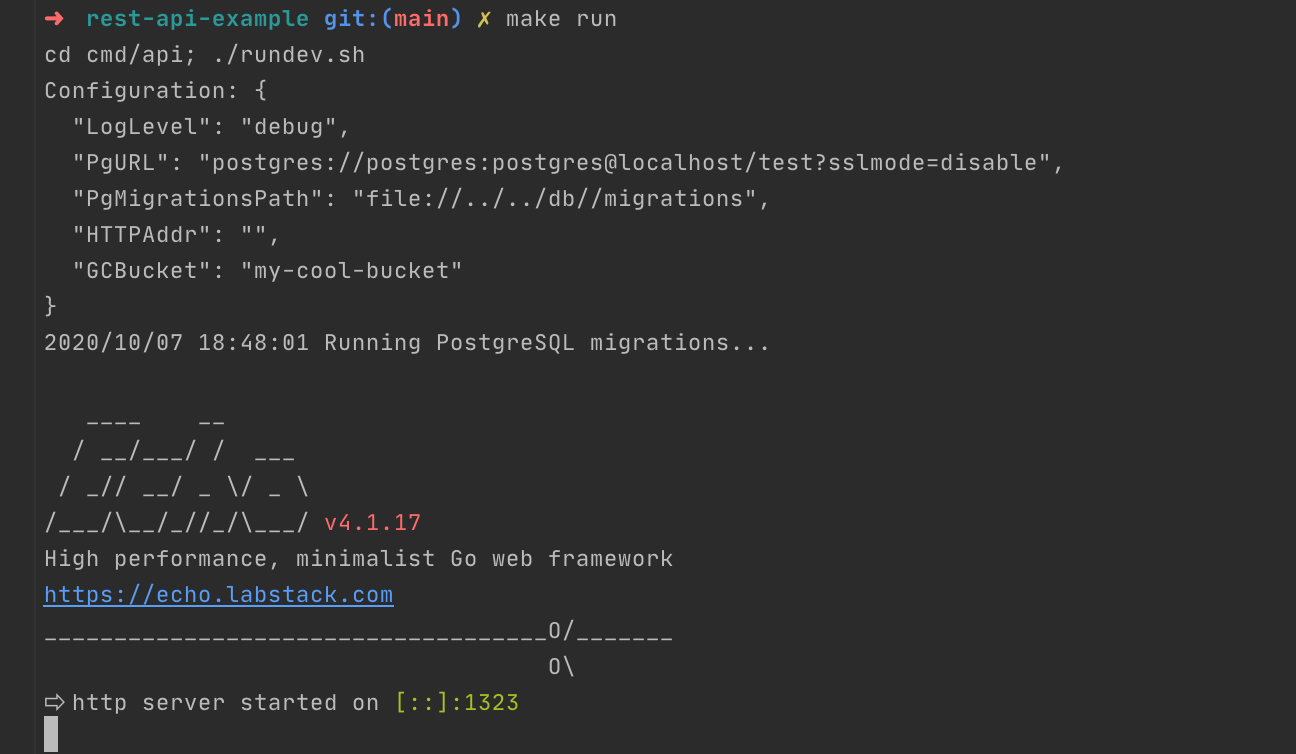
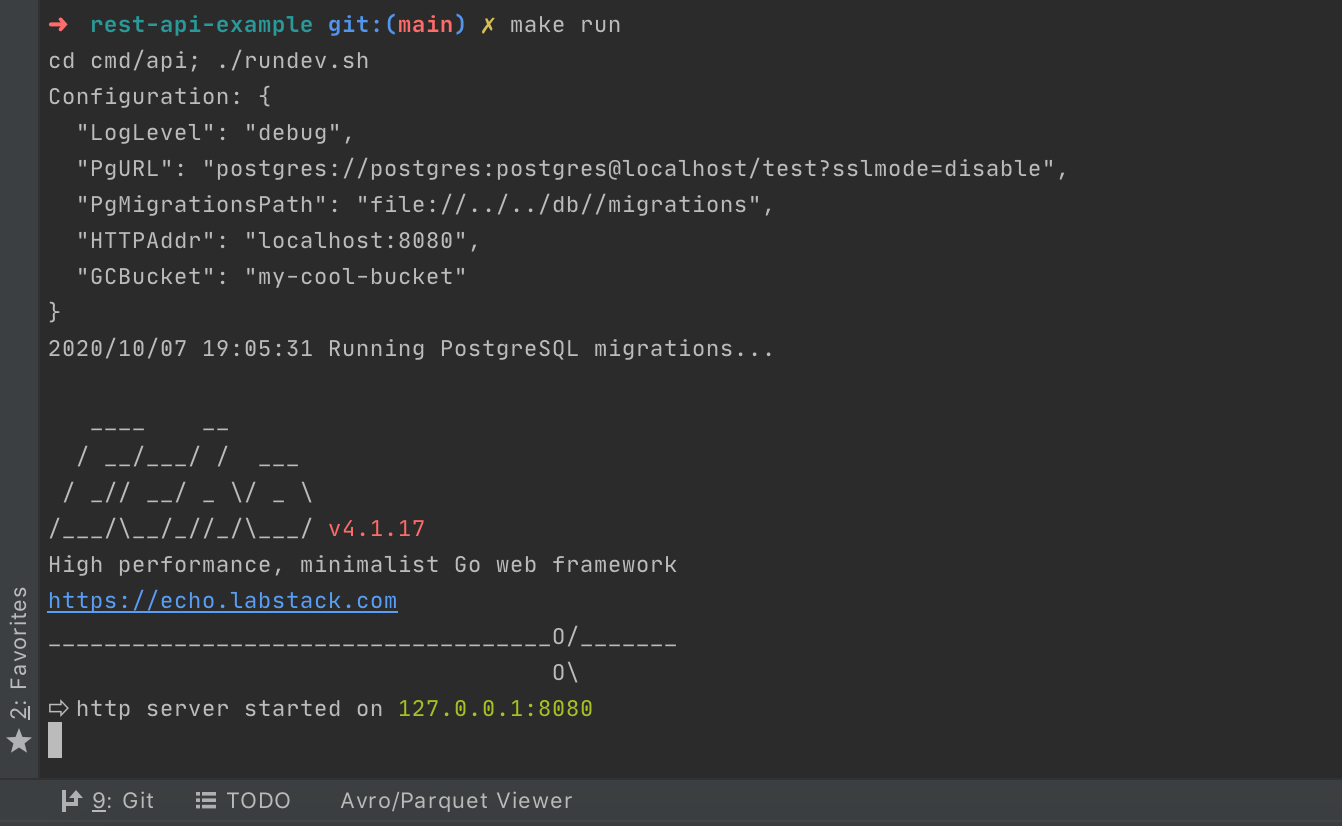
Run on :8080

Changed region(s): [[0.0, 0.5491, 0.5247, 1.0], [0.0309, 0.0, 0.8025, 0.366], [0.0309, 0.3966, 0.5556, 0.4881]]

diff --git a/cmd/api/main.go b/cmd/api/main.go
@@ -2,6 +2,8 @@ package main
 
 import (
 	"context"
+	"net/http"
+	"time"
 
 	"github.com/evt/rest-api-example/gcloud"
 
@@ -102,7 +104,12 @@ func run() error {
 	fileRoutes.GET("/:id/content", fileController.Download)
 
 	// Start server
-	e.Logger.Fatal(e.Start(":1323"))
+	s := &http.Server{
+		Addr:         cfg.HTTPAddr,
+		ReadTimeout:  30 * time.Minute,
+		WriteTimeout: 30 * time.Minute,
+	}
+	e.Logger.Fatal(e.StartServer(s))
 
 	return nil
 }
